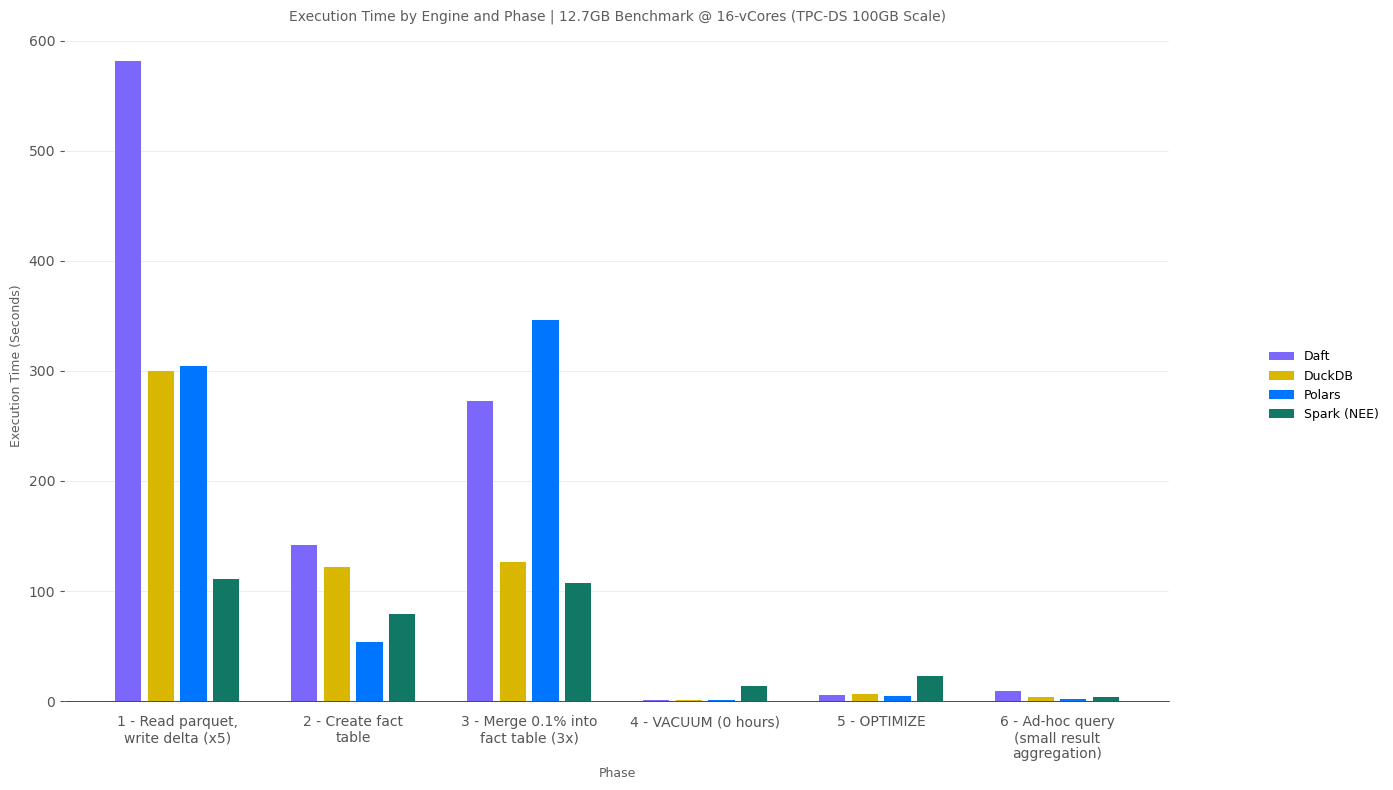
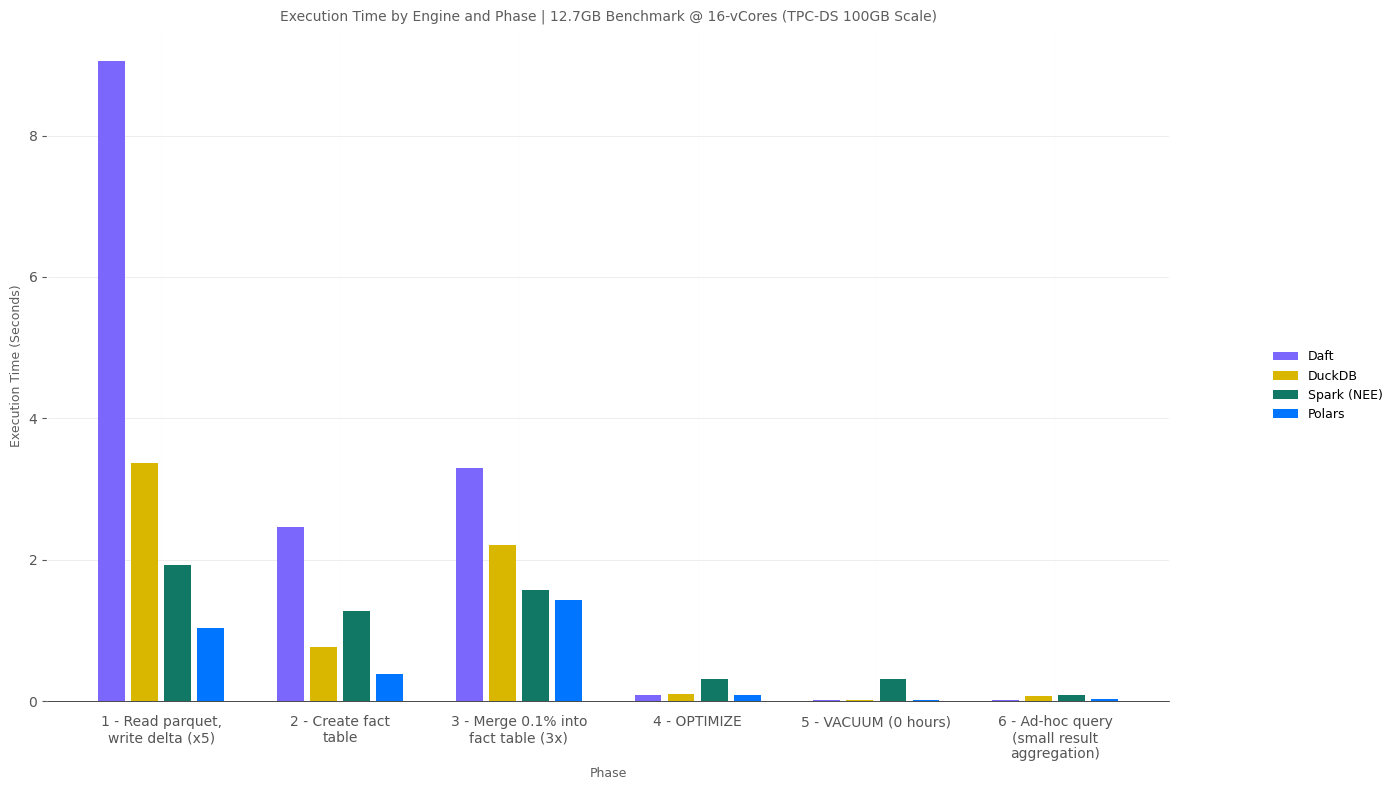
update to include deltars v1 and consistent diy sample

diff --git a/_posts/2025-06-30-Spark-v-DuckDb-v-Polars-v-Daft-Revisited.md b/_posts/2025-06-30-Spark-v-DuckDb-v-Polars-v-Daft-Revisited.md
@@ -47,7 +47,7 @@ Most benchmarks that are published are too query-heavy and miss the reality that
 
 | Engine       | Version                                   |
 | ------------ | ----------------------------------------- |
-| Daft         | 0.4.18                                    |
+| Daft         | 0.5.7                                    |
 | Delta-rs     | 0.18.3                                    |
 | DuckDB       | 1.3.1                                     |
 | Polars       | 1.30.0                                    |
@@ -83,63 +83,106 @@ Before we dig into the results, all engines have shipped various changes since D
     - Still no Deletion Vector support :(. Make noise here: https://github.com/delta-io/delta-rs/issues/1094
 
 # Where Do Things Stand?
+> On 7/2/25 I reran the benchmark with a few changes:
+> 1. Delta-rs 1.0.2 was used instead of 0.18.2.
+> 1. ELTBench was updated to use the same exact sudo sampling logic as the input to the merge statement. Since Polars doesn't support a Lazy sample function it used its own custom sampling logic. All of the engines now use the same exact DIY sampling logic.
+> 1. Polars was upgraded to 1.3.1
+> 
+> With the above changes, particularly the upgrade to Delta-rs v1, the results generally had the non-distributed engines improve the most (the Delta-rs rust engine in v1 is now mature enough to not see performance regressions whereas in 0.18.2 the pyarrow engine was typically faster or at least prevented OOM).
+
 ## 140MB Scale
 At the 140MB scale (not tested in my benchmark from December '24), all single-machine engines are quite close in performance and handily beat Spark.
-- There's almost no aggregate difference between DuckDB, Polars, and Daft at 4-vCores. At 2-vCores, Polars barely edges out DuckDB to take the win for the fastest execution on the smallest compute size.
+- Polras is ~ 2x faster than DuckDB and Daft at 2 and 4-vCores. At 8-vCores all non-distributed engines are decently close.
 
 ![alt text](/assets/img/posts/Small-Data-Benchmark-2025/1g-all.png)
 
 ### 140MB Scale @ 4-vCores - Phase Detail
 - Spark is significantly (2-5x) slower at all write operations.
+- Polars somehow ran the ad-hoc query in 146 ms. It barely shows up on the chart, this is absolately mind blowing!
+- Spark took the bronze at completing the ad-hoc query, beating DuckDB. Somewhat suprising given how much faster the single-machine engines were at the write operations.
 
 ![alt text](/assets/img/posts/Small-Data-Benchmark-2025/1g-4core.png)
 
 ## 1.2GB Scale
-We've already reached our breakeven point where Spark is super competitive with all single-machine engines.
-- While Fabric Spark doesn't give the option to run Spark on 2-vCores, at 4-vCores Spark is the slowest but is within arm's reach of the other engines.
-- At 8-vCores, Spark, Polars, and DuckDB all complete the benchmark in the same time. Ironically, Spark at just 8-vCores running on a single-node (which uses only 4 executor cores) is 1.5x faster than Daft, the _"Spark killer"_.
+We are beginning to see that Spark is starting to catch up in aggregate but still has a ways to go.
+- Fabric Spark beats Daft, the _"Spark killer"_, at 8cores but DuckDB and particularly Polars still have a massive advantage.
+- While Fabric Spark doesn't give the option to run Spark on 2-vCores, at 4-vCores Spark is the slowest but its worth noting that only 1/2 of the nodes cores are allocated as executor cores in Single node mode, meaning that Spark is operation at 1/2 the compute power.
 
 ![alt text](/assets/img/posts/Small-Data-Benchmark-2025/10g-all.png)
 
 ### 1.2GB Scale @ 8-vCores - Phase Detail
 
-Looking at the detail by phase, a few observations:
-> Fabric Spark with the Native Execution Engine is **super fast** at reading and writing parquet. Considering that Single-Node Spark clusters in Fabric only allocate 50% of VM resources to Spark, this means that Spark only had 1/2 the cores and memory available to do the actual work of reading and writing 1.2GB of parquet data and handily beat the other engines.
+Looking at the detail by phase, a couple observations:
+- Again we see that Spark is not the fastest at any of the phases, however it's also not the slowest. Fabric Spark beat DuckDB at the ad-hoc query, and beat Daft at 2 of 3 write phases.
+- I'm again stunned by Polars...
 
 ![alt text](/assets/img/posts/Small-Data-Benchmark-2025/10g-8core.png)
 
 ## 12.7GB Scale
-Now at 12.7GB scale, we see Fabric Spark with the Native Execution Engine really flex its muscles:
-- Spark was the **only** engine to complete the benchmark on 4-vCores. Yes, every engine advertises it can process data that is larger than memory, but somehow Spark is the only engine to complete all benchmarks, and with the Single-Node config, does it with 1/2 the available memory and cores 🤯. Interestingly, DuckDB was able to complete this 4-vCore job on version 1.1.3, but using the latest version (1.3.1), which is significantly faster in all other scenarios, resulted in OOM.
-- At 8-vCores, neither Polars nor Daft could effectively manage memory to avoid OOM. Spark was 1.3x faster than DuckDB.
-- At 16-vCores, Spark was ~2x faster than the next engine, DuckDB.
-- At 32-vCores:
-    - Spark was 2.8x faster than DuckDB
-    - Spark was 2.9x faster than Polars
-    - Spark was 6.7x faster than Daft
+Now at 12.7GB scale, we see Fabric Spark with the Native Execution Engine start to flex its muscles as the data scale grows to what I'd consider the peark of the "small data" range:
+- Spark was the fastest engine, with DuckDB close behind, to complete all compute scales without running into out-of-memory (OOM).
+- Polars leaves me perplexed. It somehow beat Spark at the 16 and 32-vCore compute scale, yet it also ran into OOM below 16-vCores.
+- DuckDB was the only non-distributed engine to complete the benchmark at 2-vCores. 
+- I will again highlight that Spark at 4 and 8-vCores is running in single-node mode and only 1/2 of the machines cores and RAM are allocated to executors. The reason I point this out again is that this is a platform configuration (which conceptually could change) and at only 50% of the available compute being used, it is on-par or beating non-distributed engines. If all cores were allocated to executors I'd expect Spark to decisively win this scale and compute size.
+- Lastly, a note on the importance of upgrading your composible data stack (the reality that Delta-rs is used to write DuckDB in-memory data to Delta format): before upgrading to Delta-rs v1, DuckDB ran into OOM at the 2 and 4-vCore scale. After upgrading, with DuckDB being able to leverage the more efficient Rust based engine in Delta-rs it had no problem running the tests at 2 and 4-vCore compute scales. 
+- Daft trails the competition by a wide margin. I absolvely love Daft's vision, but I'm just not seeing it in the perf department.
 
-> Note: the 'PyArrow' Delta-rs engine was used instead of the newer 'Rust' engine for engines that don't directly support writing to Delta. The Rust engine had nearly the same performance but resulted in OOM at 8-vCores, whereas PyArrow didn't have any issues at this compute size.
+> <s>Note: the 'PyArrow' Delta-rs engine was used instead of the newer 'Rust' engine for engines that don't directly support writing to Delta (in version 0.18.2). The Rust engine had nearly the same performance but resulted in OOM at 8-vCores, whereas PyArrow didn't have any issues at this compute size.</s> In Delta-rs V1 the Rust engine is the only engine option.
 
 ![alt text](/assets/img/posts/Small-Data-Benchmark-2025/100g-all.png)
 
 ### 12.7GB Scale @ 16-vCores - Phase Detail
 Looking at the detail from the 16-vCore tests:
-- Fabric Spark with the Native Execution Engine was nearly 3x faster at phase 1 for loading the 5 Delta tables.
-- Polars slightly beat Spark at performing the CTAS operation.
-- Fabric Spark ran the 3x MERGE operations the fastest, with DuckDB close behind.
-- Polars executed the ad-hoc query the fastest, with DuckDB and Spark very close behind.
+- Polars and Daft tie at completing the ad-hoc query.
+- Fabric Spark comes in 2nd place at 2 of 3 write phases.
+- Polars was either the fastest or tied at every phase.
+- Daft took significantly longer to load the 5 Delta tables.
 
 ![alt text](/assets/img/posts/Small-Data-Benchmark-2025/100g-16core.png)
 
 ## General Observations
-1. As noted the last time I ran this benchmark, `VACUUM` is significantly slower in Spark. On the odd chance that you aren't using Deletion Vectors in Fabric, you could use the Delta-rs library to vacuum your tables.
+1. As noted, the last time I ran this benchmark, `VACUUM` is significantly slower in Spark. On the odd chance that you aren't using Deletion Vectors in Fabric, you could use the Delta-rs library to vacuum your tables.
 1. `OPTIMIZE` is generally faster via Delta-rs. The reason for this is primarily that the Native Execution Engine doesn't support the entire compaction code path and results in two fallbacks to execution on the JVM. I anticipate this will get _much faster_ once we ship support for this code path.
-1. In all benchmarks where Polars didn't run into OOM before getting to the ad-hoc query test, it was consistently the fastest engine at this aggregative query.
-1. **Spark was the only engine to complete the entire battery of benchmark scenarios with not a single out-of-memory exception**. This is the result of the Native Execution Engine's highly efficient use of columnar memory, outside the JVM. Where JVM memory is needed for any fallbacks (i.e., when running `OPTIMIZE`), memory is dynamically allocated between on-heap and off-heap as needed.
-1. Spark consistently sees greater relative improvement in execution time via adding more compute as compared to the other engines. Daft got slower at 1.2GB scale going from 4 to 8-vCores and also got slower at the 12.7GB scale going from 16 to 32-vCores.
+1. In all benchmarks where Polars didn't run into OOM, it was consistently the fastest engine.
+1. Both Spark and DuckDB where the only engines to complete the entire battery of benchmark scenarios with not a single out-of-memory exception. Maybe unsuprising for DuckDB which isn't JVM based, but for Spark this is the result of the Native Execution Engine's highly efficient use of columnar memory, outside the JVM. Where JVM memory is needed for any fallbacks (i.e., when running `OPTIMIZE`), memory is dynamically allocated between on-heap and off-heap as needed.
+1. Spark consistently sees greater relative improvement in execution time via adding more compute as compared to the other engines.
+
 
 ## Which Engine Gained the Most Ground Since December '24?
-While all engines got much faster, Fabric Spark with the Native Execution Engine saw the greatest performance gains relative to December '24 (between 1.6x-2x faster depending on the data scale and cluster config). Spark increased its advantage over single-machine engines at the 12.7GB scale while also getting even more competitive at the 1.2GB scale.
+While all engines got much faster, Polars followed by Fabric Spark with the Native Execution Engine saw the greatest performance gains relative to December '24. Polars got so much faster that I honestly questioned whether or not there was a bug in my code resulting in less data being written or LazyFrames that were never triggered. 
 
 # So Is It Time to Ditch Spark?
-Unless your data is around 100MB compressed, you don't project growth up to 1GB in the next couple of years, _and_ you are okay with trailing Delta lake compatibility (no support for Deletion Vectors), I'd say it's a hard **no** to give up on Spark anytime soon. While DuckDB, Polars, and Daft all leverage columnar memory and vectorized execution via either C++ or Rust implementations, Fabric Spark with the Native Execution Engine (via Velox and Apache Gluten) does as well. And guess what? There's plenty of additional optimizations still planned for Fabric Spark and the Native Execution Engine that will continue to improve performance in the coming year. I look forward to seeing where things stand in 2026 😁.
+While the non-distributed engines, particularly Polars and DuckDB are very competitive or even faster than Spark at most small data benchmarks, there's a few reasons why I would still use Spark with the Native Execution Engine in most small data scenarios:
+
+1. **Maturity**: What the perf numbers don’t highlight is the amount of work involved to get the benchmark to run successfully. Daft, DuckDB, and Polars all required significantly more time than Fabric Spark to get the same code from December ’24 running on the latest engine versions. I didn’t have to change a single thing in Spark — it just ran. And with zero effort (thanks to the engineering investment from Microsoft), my code ran ~2x faster.
+    - Daft had all sorts of issues with authenticating to storage ([GitHub Issue: 4692](https://github.com/Eventual-Inc/Daft/issues/4692)). After a few hours I gave up and reverted to using ADLS Gen2. Daft also broke after upgrading to Delta-rs v1, as it references a method that no longer exists in v1 ([GitHub Issue: 4677](https://github.com/Eventual-Inc/Daft/issues/4677)). On the code front, the only feature support issue I had with this benchmark was that it doesn’t have a random value function. On adding support for TPC-DS and TPC-H benchmarks in LakeBench, I’ve found that Daft SQL is very immature — it gets tripped up easily (no support for `CROSS JOIN`s and frequent data type casting issues that other engines don’t have).
+    - Polars code required some light refactoring to use the new streaming engine. Polars also required me to refactor the existing benchmark as it doesn’t support `LazyFrame.sample` and doesn’t have a random value function. My only other issue was navigating the OOM errors.
+    - DuckDB also had periodic issues authenticating to storage. At the larger data scale, tasks seemed to get stuck — almost like the auto-generated token was no longer valid — but would just keep running until I manually canceled the job. Upgrading to Delta-rs v1 required removing the `engine` parameter and possibly introduced this error: `InvalidInputException: Invalid Input Error: Attempting to execute an unsuccessful or closed pending query result`. Refactoring the code to explicitly establish a DuckDB connection and create my own storage secret fixed this, but it’s extremely hard to tell what the exact root cause was — DuckDB, Delta-rs, or ultimately a Fabric token issue.
+
+1. **Triaging Support**: Imagine that you have a query that has been running for a while and you just want to know what’s going on or what’s actually running at that moment. In Spark, you can simply look at the in-cell task metrics to see that things are happening or open the Spark UI to get full details on what’s currently running and what has run. For the non-distributed engines, I had multiple cases of wanting to know what it was actively doing — and there’s zero visibility. Fine for any operation that runs in <1 minute, but for anything longer, the lack of visibility is just like rolling dice, hoping you wrote the code well and that your compute size will work out. Want to look at logs to see what’s already happened or the details of a prior session? Good luck.
+
+1. **DIY Composable Data Systems == More Management Overhead**: First of all, I love the idea of the composable data stack — if you aren’t familiar with it, give [Wes McKinney’s blog](https://wesmckinney.com/blog/looking-back-15-years/) a read. Having pluggable components in your stack makes it more flexible and allows you to leverage the best of open source. Fabric takes advantage of this by using Velox and Apache Gluten as foundational components of the Native Execution Engine to accelerate Spark. But this is all managed for users — no need to test and choose versions, perform upgrades, roll out changes, etc. I’m beginning to love DuckDB (and Polars — I’m blown away by its recent perf gains), but what I don’t love is the necessity to stitch together different technologies just to get something simple to work. DuckDB is the most robust non-distributed engine at reading Delta format, but it doesn’t natively write to Delta. You can cast DuckDB relations to Arrow format so that Delta-rs can take over and do the write, but there are at least four different ways to do it (`arrow`, `fetch_record_batch`, `fetch_arrow_reader`, `record_batch`) and the [documentation](https://duckdb.org/docs/stable/guides/python/export_arrow) is poor at explaining the differences and best practices. What DuckDB natively supports is fantastic, but when you need to complete the whole E2E data lifecycle, things start to get fragmented. As your stack gets fragmented with different technologies, you then need to manage compatibility — e.g., LakeBench installs Delta-rs v1.0.N for Polars and DuckDB but v0.25.5 for Daft.
+
+1. **Delta Feature Support**: I look forward to the day when all these engines fully support features like Deletion Vectors for both reads and writes. Currently, DuckDB supports reading Deletion Vectors, but Delta-rs lacks support for writing them. Polars and Daft, as far as I know, do not support either read or write paths. In LakeBench, the telemetry logging table is configured with Deletion Vectors disabled to ensure compatibility across all engines for writing logs. Relying on the lowest common denominator of features can be quite limiting and frustrating.
+
+1. **Future Data Growth**: In most cases, small data will grow into big data — or at least into data of a scale where distributed engines are necessary for decent perf. If you have small data today, consider the rate of possible growth and whether it makes sense to start with distributed-capable compute like Spark. You can start on single-node configs to keep costs low and seamlessly scale out to multiple nodes as your data volumes grow.
+
+Just to add some data growth sanity to this benchmark, let's consider if our largest scale tested grew 10x from 12.7GB to ~ 127GB (2.8B row transaction table).
+
+## Which engine wins at the 127GB scale?
+
+All engines were tested on 16, 32, and 64 total cores (Spark w/ 7x8-vCore Workers + 1 8vCore driver).
+- DuckDB was the only non-distributed engine to complete the benchmark but did results in OOM at 16-vCores. Polars ran into OOM just minutes into the job. Daft ran for over and hour and then failed.
+- Spark was the only engine to complete the 127GB scale on all compute sizes.
+    - Spark was ~ 3.5x faster than DuckDB at 32-vCores
+    - Spark was ~ 6x faster than DuckDB at 64-vCores
+
+![alt text](/assets/img/posts/Small-Data-Benchmark-2025/1000g-all.png)
+
+There we go, now we have out dose of "medium data" reality, Spark is still king. I was starting to sweat a bit there as the small data tests completed 😅.
+
+So what's _my guidance_ here?
+
+> If you have uber-small data (i.e. up to 1GB compressed), you can be quite successful reducing costs and improving performance by using a non-distributed engine like Polars, DuckDB, or Daft. If your data is between 1GB and 10GB compressed, Spark with vectorization via the Native Execution Engine is super competitive perf-wise, much more fault- and constrained-memory-tolerant, and thus entirely worth leveraging. While DuckDB, Polars, and Daft all leverage columnar memory and vectorized execution via either C++ or Rust implementations, Fabric Spark with the Native Execution Engine (via Velox and Apache Gluten) does as well. And guess what? There are plenty of additional optimizations still planned for Fabric Spark and the Native Execution Engine that will continue to improve performance in the coming year. I look forward to seeing where things stand in 2026 😁.
+>
+> Regardless of your current data scale, consider potential data growth, maturity, and feature support so you aren’t setting yourself up for a required engine replatform as your data grows beyond the bounds of being small or you require a more mature set of capabilities.
